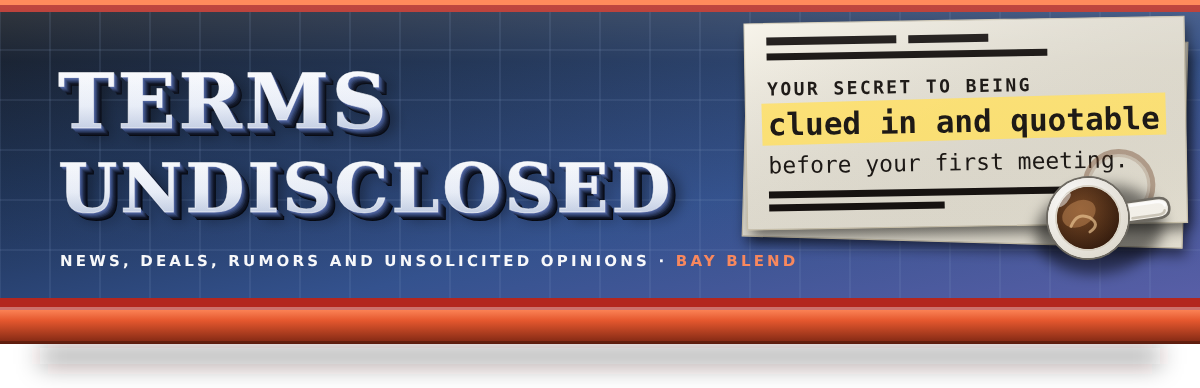
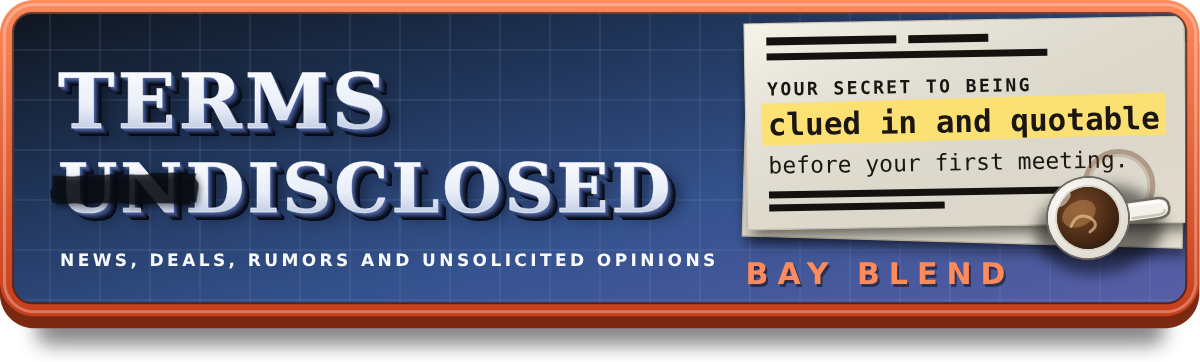
Add files via upload

diff --git a/template/build_site.py b/template/build_site.py
@@ -65,7 +65,7 @@ def render(secs, rel=''):
         info = COLS.get(title); fam = info[1] if info else 'news'
         slug = re.sub(r'[^a-z]+', '-', title.lower()).strip('-')
         o.append(f'<section class="col {fam} {slug}">')
-        if info: o.append(f'<img class="cb" src="{rel}banners/{info[0]}.png" alt="{E(title)}" width="1200" height="263">')
+        if info: o.append(f'<img class="cb" src="{rel}banners/{info[0]}.png?v=2026101403" alt="{E(title)}" width="1200" height="263">')
         else: o.append(f'<h2>{E(title)}</h2>')
         o.append('<div class="cside"><div class="cbody">' if info else '<div class="cbody">')
         if lines and lines[0].startswith('~ '):
@@ -133,7 +133,7 @@ def render(secs, rel=''):
             if ul: o.append('</ul>')
         else:
             for l in body: o.append(more(l) if l.startswith('> ') else f'<p>{inline(l)}</p>')
-        o.append(('</div></div>' + f'<img class="cbf" src="{rel}banners/foot_{info[0]}.png" alt="" width="1200" height="96">' + '</section>') if info else '</div></section>')
+        o.append(('</div></div>' + f'<img class="cbf" src="{rel}banners/foot_{info[0]}.png?v=2026101403" alt="" width="1200" height="96">' + '</section>') if info else '</div></section>')
     return '\n'.join(o)
 def long_date(iso):
     d = datetime.date.fromisoformat(iso); return d.strftime('%A, %B ') + str(d.day) + d.strftime(', %Y')
@@ -196,10 +196,10 @@ p.lead{background:none;border:0;padding:0;font-size:19px}p.lead .dc{float:left;f
 .callrule{border-left:4px solid var(--c);padding-left:14px}
 .boxed{border:1px solid var(--ink);background:var(--card);padding:16px 18px 4px;margin:0 0 16px}
 ol.three{list-style:none;padding:0;counter-reset:n}ol.three li{counter-increment:n;display:flex;gap:14px;align-items:center;margin:0 0 14px}ol.three li:before{content:counter(n);flex:none;width:46px;height:46px;border-radius:23px;background:var(--c);color:#fff;font:bold 24px/46px Georgia,serif;text-align:center}
-.masthead{background:#4B505C;display:block;width:calc(100% + 32px);max-width:none;height:auto;margin:0 -16px}.byline{text-align:center;font:italic 14px Georgia,serif;margin:10px 0 0}.byline .by{color:var(--red)}.topline{display:flex;flex-wrap:wrap;justify-content:center;align-items:center;gap:12px 18px;margin:14px 0 22px}.tagimg{display:block;width:100%;max-width:387px;height:auto}.tile{display:flex;flex-direction:column;align-items:center;width:108px;border:1px solid #8A6238;border-radius:8px;overflow:hidden;background:#FBF1DA;box-shadow:0 6px 10px rgba(60,40,20,.32);font-family:Arial,sans-serif;text-align:center}.tile .tm{align-self:stretch;background:#B3261E;color:#fff;font:bold 11px Arial,sans-serif;letter-spacing:3px;padding:6px 0}.tile .td{font:bold 44px/1 Georgia,serif;color:#1B2430;padding:6px 0 0}.tile .tw{font:bold 10px Arial,sans-serif;letter-spacing:3px;color:#5C6573;padding-top:4px}.tile .ty{font:10px Arial,sans-serif;letter-spacing:2px;color:#5C6573;padding:2px 0 8px}.byline .pill{display:inline-block;border:1px solid var(--ink);border-radius:999px;padding:6px 18px;font:italic 15px/1.45 Georgia,serif;font-style:italic}.byline .pill b{color:var(--red)}
+.masthead{background:#4B505C;display:block;box-sizing:border-box;width:calc(100% + 32px);max-width:none;height:auto;margin:0 -16px;padding:22px 20px 0}.byline{text-align:center;font:italic 14px Georgia,serif;margin:10px 0 0}.byline .by{color:var(--red)}.topline{display:flex;flex-wrap:wrap;justify-content:center;align-items:center;gap:12px 18px;margin:14px 0 22px}.tagimg{display:block;width:100%;max-width:387px;height:auto}.tile{display:flex;flex-direction:column;align-items:center;width:108px;border:1px solid #8A6238;border-radius:8px;overflow:hidden;background:#FBF1DA;box-shadow:0 6px 10px rgba(60,40,20,.32);font-family:Arial,sans-serif;text-align:center}.tile .tm{align-self:stretch;background:#B3261E;color:#fff;font:bold 11px Arial,sans-serif;letter-spacing:3px;padding:6px 0}.tile .td{font:bold 44px/1 Georgia,serif;color:#1B2430;padding:6px 0 0}.tile .tw{font:bold 10px Arial,sans-serif;letter-spacing:3px;color:#5C6573;padding-top:4px}.tile .ty{font:10px Arial,sans-serif;letter-spacing:2px;color:#5C6573;padding:2px 0 8px}.byline .pill{display:inline-block;border:1px solid var(--ink);border-radius:999px;padding:6px 18px;font:italic 15px/1.45 Georgia,serif;font-style:italic}.byline .pill b{color:var(--red)}
 .col p a{word-break:break-word}
 .desk{background:#4B505C;margin:0 -16px;padding:2px 20px 28px}.desk nav{margin:0;padding:18px 0 4px;font:bold 11px Arial,sans-serif;letter-spacing:.14em}.desk nav a{color:#D5DEEE;margin:0 9px}.desk nav a{white-space:nowrap}.desk nav a:hover{color:#E8CBA6}@media(max-width:480px){.desk nav{font-size:10px;letter-spacing:.06em}.desk nav a{margin:0 5px}}.desk .date{color:#D5DEEE;margin:14px 0 0}.desk .date a{color:#D5DEEE}
-.term{font:min(14px,3.3vw)/1.75 Menlo,Consolas,'Courier New',monospace;color:#F2F5FA;white-space:nowrap;margin:16px 0 0}.term .tg{color:#8CF0B0}.term .tk{color:#8FDCFF}.term .tm{color:#B6C0D4}.term .tv{color:#E8CBA6}.term a{color:#E8CBA6;text-decoration:underline;text-decoration-style:dotted;text-underline-offset:3px}.term a:hover{color:#fff;text-decoration-style:solid}.term .cur{color:#fff}.term.tend{margin:26px 0 0}
+.term{position:relative;font:bold min(18px,4.4vw)/1.5 Menlo,Consolas,'Courier New',monospace;color:#EAF9FF;text-shadow:1px 1px 0 #2E7BFF,2px 2px 0 #2467E0,3px 3px 0 #1B52BF,4px 4px 0 #143F99,5px 5px 0 #0E2E73,6px 6px 0 #0A2256,0 0 6px #B9EEFF,0 0 16px #3DA2FF,0 0 32px #1D6BFF;margin:16px 0 0;padding:14px 18px 14px 84px;min-height:80px;border:1px solid #4FB3FF;border-radius:14px;background:#0B1530 url(banners/term_bg.png?v=2026101403) center/cover no-repeat;box-shadow:0 8px 18px rgba(0,0,0,.4),inset 0 0 30px rgba(0,0,0,.5)}.term:before{content:'';position:absolute;left:12px;top:50%;width:54px;height:54px;margin-top:-27px;background:url(banners/term_cup.png?v=2026101403) center/contain no-repeat}.term.tend:before{background-image:url(banners/term_cup_off.png?v=2026101403)}.term .tg{color:#9FE2FF}.term a{color:#EAF9FF;text-decoration:underline;text-decoration-style:dotted;text-underline-offset:4px}.term a:hover{text-decoration-style:solid}.term.tend{margin:26px 0 0}
 .subline{font:italic 15px Georgia,serif;text-align:center;margin:30px 0 0;color:var(--mute)}.subline a{color:var(--red);font:bold 14px Arial,sans-serif;font-style:normal;margin-left:6px}footer .copy a{color:var(--mute)}
 '''
 JS = '''<script>
@@ -220,7 +220,7 @@ def page(title, body, rel='', desc=META_DESC, canon='/', top=None, after=''):
     return f'''<!doctype html><html lang="en"><head><meta charset="utf-8"><meta name="viewport" content="width=device-width,initial-scale=1">
 <title>{E(title)}</title><meta name="description" content="{E(desc)}"><link rel="canonical" href="{BASE}{canon}">
 <meta property="og:title" content="{E(title)}"><meta property="og:description" content="{E(desc)}"><meta property="og:image" content="{BASE}/banner.png"><link rel="stylesheet" href="{rel}style.css"><link rel="icon" href="{rel}favicon.svg" type="image/svg+xml"><link rel="icon" href="{rel}favicon-32x32.png" sizes="32x32" type="image/png"><link rel="icon" href="{rel}favicon-16x16.png" sizes="16x16" type="image/png"><link rel="shortcut icon" href="{rel}favicon.ico"><link rel="apple-touch-icon" href="{rel}apple-touch-icon.png"></head><body><div class="wrap">
-<img class="masthead" src="{rel}banners/00_masthead.png" alt="{E(SITE)}. {E(TAGLINE)}" width="1200" height="388">
+<img class="masthead" src="{rel}banners/00_masthead.png?v=2026101403" alt="{E(SITE)}. {E(TAGLINE)}" width="1200" height="362">
 {(DESK_OPEN := '<div class="desk"><nav><a href="' + (rel or './') + '">Today</a><a href="' + rel + 'archive/">Archive</a><a href="' + rel + 'about/">About</a><a href="' + rel + 'subscribe/">Subscribe</a><a href="' + HOME + '/">All editions</a></nav>')}{(top + body + TERM_END + '</div>') if top else ('</div>' + body)}{after}
 <footer>Informed, opinionated, occasionally wrong. Verify before repeating at dinner.<br><span class="copy">{E(BYLINE)}</span><br><span class="copy">All views expressed are strictly AI generated and are not those of any human.</span><br><span class="copy">No humans in the loop. One human on the loop.</span><br><span class="copy">&copy; {datetime.date.today().year} Humans Not Included Media, publisher of {E(SITE)}. All rights reserved. <a href="{rel}unsubscribe/">Unsubscribe</a></span></footer></div>{JS}</body></html>'''
 def w(path, content):

diff --git a/template/build_home.py b/template/build_home.py
@@ -22,8 +22,8 @@ CSS += '''
 live = [(k, v) for k, v in CFG.items() if v.get('status') == 'live']
 nums = len(CFG)
 def card(key, fam, inner):
-    return (f'<section class="col {fam}"><img class="cb" src="banners/{key}.png" alt="" width="1200" height="263">'
-            f'<div class="cside"><div class="cbody">{inner}</div></div><img class="cbf" src="banners/foot_{key}.png" alt="" width="1200" height="96"></section>')
+    return (f'<section class="col {fam}"><img class="cb" src="banners/{key}.png?v=2026101403" alt="" width="1200" height="263">'
+            f'<div class="cside"><div class="cbody">{inner}</div></div><img class="cbf" src="banners/foot_{key}.png?v=2026101403" alt="" width="1200" height="96"></section>')
 what = ('<p>Terms Undisclosed is a short weekday briefing on what is actually going on in business and tech, written for people who need to be '
         'clued in and quotable before their first meeting. It covers funding, deals, regulation, rumors and the occasional absurdity, and it is written to be '
         'read in five minutes and repeated at dinner.</p>'
@@ -49,7 +49,7 @@ def page(title, body, rel='', desc='', canon='/', thick=False, top='', end=''):
     return f'''<!doctype html><html lang="en"><head><meta charset="utf-8"><meta name="viewport" content="width=device-width,initial-scale=1">
 <title>{E(title)}</title><meta name="description" content="{E(desc)}"><link rel="canonical" href="{BASE}{canon}">
 <meta property="og:title" content="{E(title)}"><meta property="og:description" content="{E(desc)}"><meta property="og:image" content="{BASE}/banner.png"><link rel="stylesheet" href="{rel}style.css"><link rel="icon" href="{rel}favicon.svg" type="image/svg+xml"><link rel="icon" href="{rel}favicon-32x32.png" sizes="32x32" type="image/png"><link rel="shortcut icon" href="{rel}favicon.ico"><link rel="apple-touch-icon" href="{rel}apple-touch-icon.png"></head><body><div class="wrap">
-<img class="masthead" src="{rel}banners/00_masthead.png" alt="Terms Undisclosed. News, deals, rumors and unsolicited opinions" width="1200" height="388">
+<img class="masthead" src="{rel}banners/00_masthead.png?v=2026101403" alt="Terms Undisclosed. News, deals, rumors and unsolicited opinions" width="1200" height="362">
 {desk}
 <footer>Informed, opinionated, occasionally wrong. Verify before repeating at dinner.<br><span class="copy">Designed by hand, written by Claude.</span><br><span class="copy">All views expressed are strictly AI generated and are not those of any human.</span><br><span class="copy">No humans in the loop. One human on the loop.</span><br><span class="copy">&copy; {datetime.date.today().year} Humans Not Included Media, publisher of Terms Undisclosed. All rights reserved.</span></footer></div></body></html>'''
 def w(path, content):
